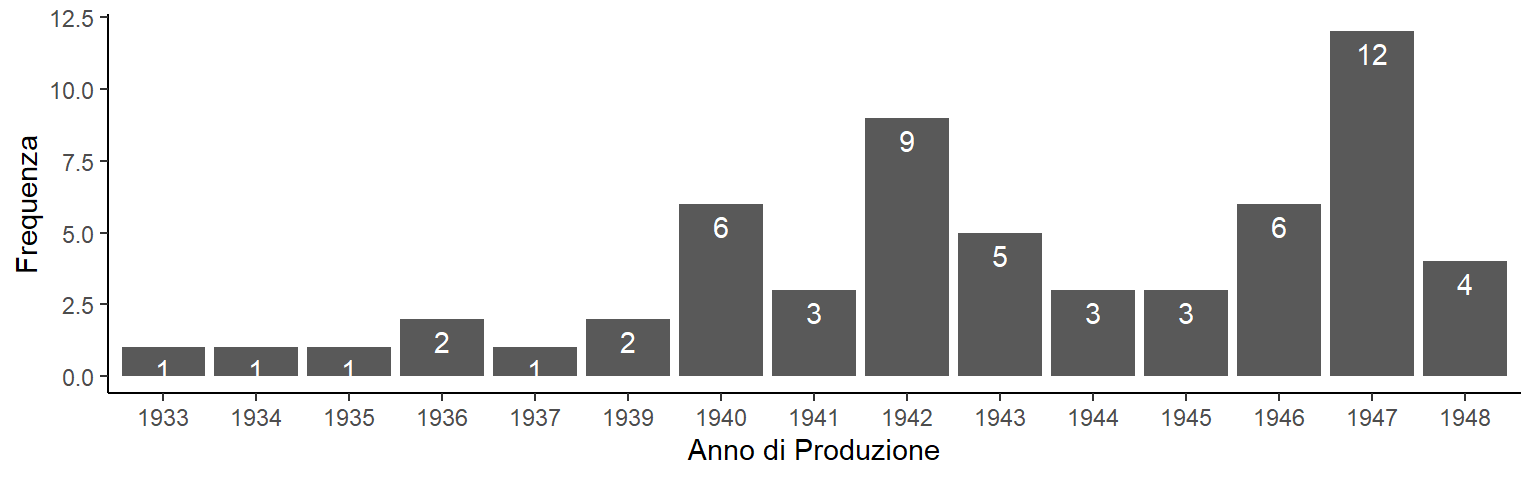
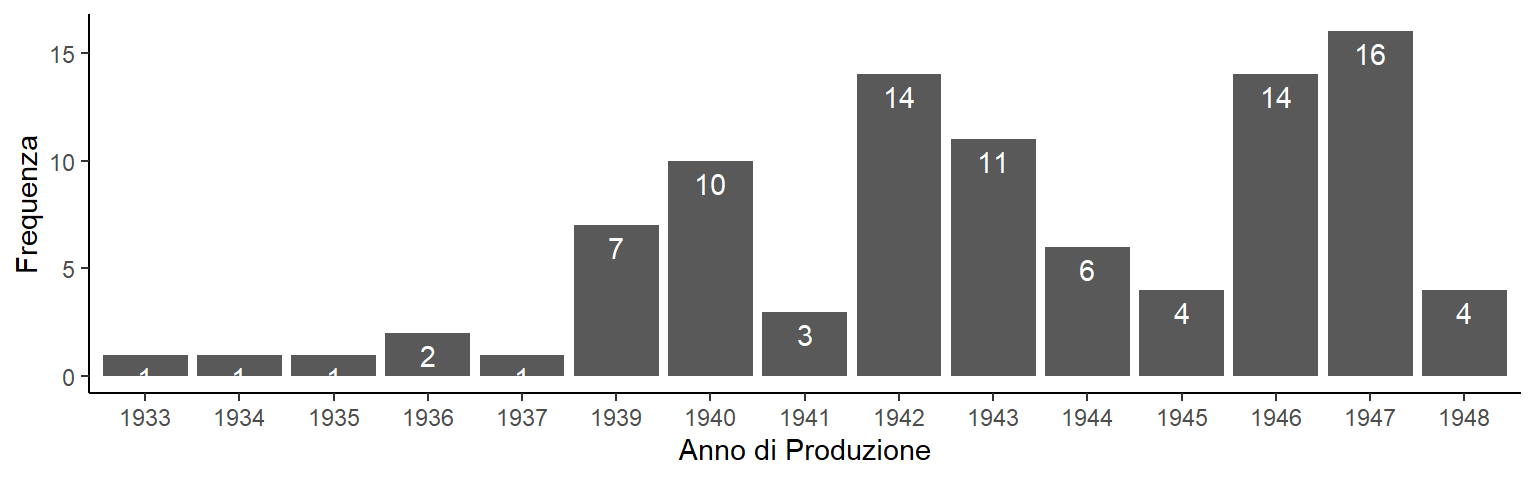
aggiornamento articolo dopo il calendario 1948

diff --git a/content/agende/1948-10-01-agenda-cinematografica-1948-1949/index.md b/content/agende/1948-10-01-agenda-cinematografica-1948-1949/index.md
@@ -16,42 +16,40 @@ tags:
 
 In questo articolo esploreremo la stagione cinematografica che va dall'ottobre del 1948 a settembre del 1949, basandoci sull'elenco dei film ritrovati nelle agende cinematografiche del cinema (vedi le immagini nella galleria sotto l'articolo).
 
-Dalle agende cinematografiche del ‘48/‘49, possiamo contare ben 59 film unici proiettati. Il primo film di cui abbiamo la data di proiezione è [Melodia segreta](https://www.imdb.com/title/tt0191305/) (1940) di Claude Orval, proiettato il 6 ottobre 1948. Durante l'anno, se escludiano le repliche, la media di film unici proiettati ogni mese è stata di 5, ma il mese con il maggior numero di pellicole uniche in programmazione è stato febbraio.
+Dalle agende cinematografiche possiamo contare ben 95 film unici proiettati. Il primo film di cui abbiamo la data di proiezione è *[Tua per sempre](https://www.imdb.com/title/tt0035993/)* (1943, F. Ryan), proiettato l'11 febbraio 1948. Durante l'anno, se escludiano le repliche, la media di film unici proiettati ogni mese è stata di 5, ma il mese con il maggior numero di pellicole uniche in programmazione è stato novembre.
 
 
 <img src="{{< blogdown/postref >}}index_files/figure-html/unnamed-chunk-1-1.png" width="768" style="display: block; margin: auto;" />
 
-La maggior parte dei film proiettati rientra nel genere drammatico. Tra le particolarità di questa stagione troviamo il film [La casa degli orrori](https://www.imdb.com/title/tt0037793/) (House of Dracula) del 1945 diretto da Erle C. Kenton.
+La maggior parte dei film proiettati rientra nel genere drammatico. Tra le particolarità di questa stagione troviamo il film *[La casa degli orrori](https://www.imdb.com/title/tt0037793/) (House of Dracula)* (1945,E. C. Kenton).
 
 <img src="{{< blogdown/postref >}}index_files/figure-html/unnamed-chunk-2-1.png" width="576" style="display: block; margin: auto;" />
 
-Il film con anno di produzione più datato è [Anime alla deriva](https://www.imdb.com/title/tt0023826/) (1933) di Alfred Santell. Il cinema ha dato la possibilità agli spettatori di scoprire e apprezzare capolavori del passato, contribuendo a preservare il patrimonio cinematografico.
+Il film con anno di produzione più datato è *[Anime alla deriva](https://www.imdb.com/title/tt0023826/)* (1933, A. Santell). Il cinema ha dato la possibilità agli spettatori di scoprire e apprezzare capolavori del passato, contribuendo a preservare il patrimonio cinematografico.
 
 <img src="{{< blogdown/postref >}}index_files/figure-html/unnamed-chunk-3-1.png" width="768" style="display: block; margin: auto;" />
 
-La durata media dei film proiettati al cinema è di 92 minuti, con i film drammatici che spesso superavano questa media. Tra i film più lunghi, che superavano le due ore abbiamo: [La Certosa di Parma](https://www.imdb.com/title/tt0040223/) (1948) di Christian-Jaque, [Le chiavi del paradiso](https://www.imdb.com/title/tt0036983/) (1944) di John M. Stahl, e [La gondola del diavolo](https://www.imdb.com/title/tt0038570/) (1946) di Carlo Campogalliani. D'altra parte, tra i film più brevi, che duravano quasi un'ora ci sono: [Fiamme sul messico](https://www.imdb.com/title/tt0034993/) (1942) di Sam Newfield, [Il mistero dei tre sosia](https://www.imdb.com/title/tt0033390/) (1942) di Sam Newfield, e [Bionda Selvaggia](https://www.imdb.com/title/tt0039198/) (1947) di Steve Sekely.
+La durata media dei film proiettati al cinema è di 92 minuti, con i film drammatici che spesso superavano questa media. Tra i film più lunghi, che superavano le due ore abbiamo: *[La Certosa di Parma](https://www.imdb.com/title/tt0040223/)* (1948, C. Jaque), *[Le chiavi del paradiso](https://www.imdb.com/title/tt0036983/)* (1944, J. M. Stahl), e *[La gondola del diavolo](https://www.imdb.com/title/tt0038570/)* (1946, C. Campogalliani). D'altra parte, tra i film più brevi, che duravano meno di un'ora ci sono: *[Fiamme sul messico](https://www.imdb.com/title/tt0034993/)* (1942, S. Newfield), *[Il mistero dei tre sosia](https://www.imdb.com/title/tt0033390/)* (1942, S. Newfield), e *[Bionda Selvaggia](https://www.imdb.com/title/tt0039198/)* (1947, S. Sekely).
 
 <img src="{{< blogdown/postref >}}index_files/figure-html/unnamed-chunk-4-1.png" width="768" style="display: block; margin: auto;" />
 
-Basandoci sul rating degli utenti di Internet Movie Database, uno dei film più apprezzati di questa stagione è [Vogliamo Vivere](https://www.imdb.com/title/tt0035446/) (1942) del noto regista Ernst Lubitsch. Tra gli altri film di Lubitsch in questa stagione troviamo [La vedova allegra](https://www.imdb.com/title/tt0025493/) (1934).
+Basandoci sul rating degli utenti di Internet Movie Database, uno dei film più apprezzati di questa stagione è *[Vogliamo Vivere](https://www.imdb.com/title/tt0035446/)* (1942) del noto regista Ernst Lubitsch. Tra gli altri film di Lubitsch in questa stagione troviamo *[La vedova allegra](https://www.imdb.com/title/tt0025493/)* (1934).
 
-Tabella 1: I migliori film della stagione '48/'49 secondo gli utenti di IMDb:
+Tabella 1: I migliori film secondo gli utenti di IMDb:
 
-|Titolo              |Anno |Regia                 | IMDb rating|
-|:-------------------|:----|:---------------------|-----------:|
-|[Vogliamo Vivere!](https://www.imdb.com/title/tt0035446/)|1942 |Ernst Lubitsch        |         8.2|
-|[Vertigine](https://www.imdb.com/title/tt0037008/)|1944 |Otto Preminger        |         7.9|
-|[Addio Kira!](https://www.imdb.com/title/tt0034429/)|1942 |Goffredo Alessandrini |         7.4|
-|[Margherita Gauthier](https://www.imdb.com/title/tt0028683/)|1936 |George Cukor          |         7.3|
-|[La vedova allegra](https://www.imdb.com/title/tt0025493/)|1934 |Ernst Lubitsch        |         7.2|
+|Titolo                                   |Anno |Regia               | IMDb rating|
+|:----------------------------------------|:----|:-------------------|-----------:|
+|[Vogliamo Vivere!](https://www.imdb.com/title/tt0035446/)|1942 |Ernst Lubitsch      |         8.2|
+|[Vertigine](https://www.imdb.com/title/tt0037008/)|1944 |Otto Preminger      |         7.9|
+|[Musica proibita](https://www.imdb.com/title/tt0035099/)|1942 |Carlo Campogalliani |         7.6|
+|[La voce nella tempesta (Cime tempestose)](https://www.imdb.com/title/tt0032145/)|1939 |William Wyler       |         7.5|
+|[Una notte tempestosa](https://www.imdb.com/title/tt0036210/)|1943 |Jean Georgescu      |         7.5|
 
-Dei 59 film proiettati in questa stagione, ben 32 sono di produzione Italiana. Tra questi, il più vecchio è [Fiat voluntas dei](https://www.imdb.com/title/tt0026348/) (1936) di Amleto Palermi.
+Dei 95 film proiettati in questa stagione, ben 58 sono di produzione Italiana. Tra questi, il più vecchio è *[Fiat voluntas dei](https://www.imdb.com/title/tt0026348/)* (1936, A. Palermi).
 
-I film con la regia più frequente sono quelli di [Mario Camerini](https://it.wikipedia.org/wiki/Mario_Camerini) con [Centomila dollari](https://www.imdb.com/title/tt0031146/) (1940), [T’amerò sempre](https://www.imdb.com/title/tt0036413/) (1943) e [La figlia del capitano](https://www.imdb.com/title/tt0039381/) (1947). Regista molto popolare dopo l’avvento del cinema sonoro e prima dello scoppio della guerra. Le opere di Camerini sono tipicamente commedie romantiche con trame molto complesse. Nella maggior parte dei casi, i suoi film forniscono una visione ironica e critica della società borghese. I temi principali di Camerini sono le pressioni imposte all'individuo dalla società ei ruoli che le persone sono costrette a svolgere nei rapporti con gli altri.
+I film con la regia più frequente sono quelli di [Mario Camerini](https://it.wikipedia.org/wiki/Mario_Camerini) con *[Centomila dollari](https://www.imdb.com/title/tt0031146/)* (1940), *[T’amerò sempre](https://www.imdb.com/title/tt0036413/)* (1943), *[L'angelo e il diavolo](https://www.imdb.com/title/tt0038301/)* (1946) e *[La figlia del capitano](https://www.imdb.com/title/tt0039381/)* (1947). Regista molto popolare dopo l’avvento del cinema sonoro e prima dello scoppio della guerra. Le opere di Camerini sono tipicamente commedie romantiche con trame molto complesse. Nella maggior parte dei casi, i suoi film forniscono una visione ironica e critica della società borghese. I temi principali di Camerini sono le pressioni imposte all'individuo dalla società ei ruoli che le persone sono costrette a svolgere nei rapporti con gli altri.
 
-I generi cinematografici spaziano dai drammi sentimentali alle commedie, includendo alcuni film appartenenti al genere italiano dei [telefoni bianchi](https://it.wikipedia.org/wiki/Cinema_dei_telefoni_bianchi) come [Ballo al castello](https://www.imdb.com/title/tt0031075/) (1939), [La mia canzone al vento](https://www.imdb.com/title/tt0031642/) (1939), [Incontri di notte](https://www.imdb.com/title/tt0034894/) (1943), e [Fiori d'arancio](https://www.imdb.com/title/tt0036826/) (1944).
-
-Tra i tanti film proiettati in questa stagione cinematografica troviamo [Follie per l’opera](https://www.imdb.com/title/tt0040362/) (1948), un film che ha dato la possibilità alla popolazione locale di conosce l’attrice emergente [Gina Lollobrigida](https://it.wikipedia.org/wiki/Gina_Lollobrigida).
+Tra i tanti film proiettati in questa stagione cinematografica troviamo *[Follie per l’opera](https://www.imdb.com/title/tt0040362/)* (1948, M. Costa), un film che ha dato la possibilità alla popolazione locale di conosce l’attrice emergente [Gina Lollobrigida](https://it.wikipedia.org/wiki/Gina_Lollobrigida).
 
 ## Galleria immagini
 
@@ -61,21 +59,61 @@ Tra i tanti film proiettati in questa stagione cinematografica troviamo [Follie 
 ### Agenda La Settimana Incom 1948-49
 {{< image-gallery gallery_dir="/images/1948_incom" >}}
 
+### Calendario proiezioni 1948
+Nel calendario si riconoscono evidenziati in giallo 38 film.
+{{< image-gallery gallery_dir="/images/1948_01_01_calendario_proiezioni" >}}
+
 ## Lista film
 
 |Data di proiezione |Titolo                                          |
 |:------------------|:-----------------------------------------------|
+|1948-02-11         |[Tua per sempre](https://www.imdb.com/title/tt0035993/)|
+|1948-02-17         |[L'ultima carrozzella](https://www.imdb.com/title/tt0036470/)|
+|1948-02-21         |[La fanciulla di Portici](https://www.imdb.com/title/tt0032454/)|
+|1948-05-01         |[Ciao bellezza!](https://www.imdb.com/title/tt0035206/)|
+|1948-05-03         |[Il conte di Montecristo](https://www.imdb.com/title/tt0035752/)|
+|1948-05-08         |[Rosa di sangue](https://www.imdb.com/title/tt0031876/)|
+|1948-05-10         |[Il ponte dei sospiri](https://www.imdb.com/title/tt0032920/)|
+|1948-05-14         |[Montecassino](https://www.imdb.com/title/tt0038748/)|
+|1948-05-17         |[Fuga a due voci](https://www.imdb.com/title/tt0034762/)|
+|1948-05-21         |[Il fornaretto di Venezia](https://www.imdb.com/title/tt0031332/)|
+|1948-05-24         |[Addio, giovinezza!](https://www.imdb.com/title/tt0032182/)|
+|1948-06-05         |[La contessa di Montecristo](https://www.imdb.com/title/tt0039106/)|
+|1948-06-07         |[Alaska, inferno dell'oro](https://www.imdb.com/title/tt0036590/)|
+|1948-06-11         |[La voce nella tempesta (Cime tempestose)](https://www.imdb.com/title/tt0032145/)|
+|1948-06-13         |[La monaca di Monza](https://www.imdb.com/title/tt0039630/)|
+|1948-06-19         |[Il testimone](https://www.imdb.com/title/tt0038155/)|
+|1948-06-21         |[Pian delle stelle](https://www.imdb.com/title/tt0038840/)|
+|1948-06-26         |[Felicità perduta](https://www.imdb.com/title/tt0038525/)|
+|1948-07-02         |[Il figlio di Montecristo](https://www.imdb.com/title/tt0033076/)|
+|1948-07-09         |[Ogni giorno è domenica](https://www.imdb.com/title/tt0037144/)|
+|1948-07-12         |[I due Foscari](https://www.imdb.com/title/tt0034687/)|
+|1948-07-20         |[La cena delle beffe](https://www.imdb.com/title/tt0033456/)|
+|1948-08-05         |[Una notte tempestosa](https://www.imdb.com/title/tt0036210/)|
+|1948-09-10         |[Capitan Tempesta](https://www.imdb.com/title/tt0033449/)|
+|1948-09-13         |[Il leone di Damasco](https://www.imdb.com/title/tt0033825/)|
+|1948-09-19         |[Un uomo ritorna](https://www.imdb.com/title/tt0039072/)|
+|1948-09-23         |[Caterina da Siena](https://www.imdb.com/title/tt0039254/)|
 |1948-10-06         |[Melodia segreta](https://www.imdb.com/title/tt0191305/)|
 |1948-10-16         |[La mia canzone al vento](https://www.imdb.com/title/tt0031642/)|
 |1948-10-19         |[Ricchezza senza domani](https://www.imdb.com/title/tt0031856/)|
 |1948-10-22         |[La casa degli orrori](https://www.imdb.com/title/tt0037793/)|
 |1948-10-24         |[Follie per l'opera](https://www.imdb.com/title/tt0040362/)|
+|1948-11-01         |[L'angelo e il diavolo](https://www.imdb.com/title/tt0038301/)|
+|1948-11-04         |[Capitan Kidd](https://www.imdb.com/title/tt0037576/)|
 |1948-11-07         |[Vertigine](https://www.imdb.com/title/tt0037008/)|
 |1948-11-09         |[Il sultano rosso](https://www.imdb.com/title/tt0026032/)|
+|1948-11-09         |[Buffalo Bill](https://www.imdb.com/title/tt0036677/)|
 |1948-11-14         |[Torna... a Sorrento](https://www.imdb.com/title/tt0038183/)|
+|1948-11-16         |[La maschera di ferro](https://www.imdb.com/title/tt0031619/)|
+|1948-11-19         |[Due ragazze e un marinaio](https://www.imdb.com/title/tt0037408/)|
 |1948-11-20         |[La vedova allegra](https://www.imdb.com/title/tt0025493/)|
+|1948-11-22         |[Musica proibita](https://www.imdb.com/title/tt0035099/)|
 |1948-11-25         |[Tentazione](https://www.imdb.com/title/tt0039015/)|
+|1948-11-25         |[Il corriere del re](https://www.imdb.com/title/tt0039280/)|
 |1948-11-28         |[Margherita Gauthier](https://www.imdb.com/title/tt0028683/)|
+|1948-12-02         |[Balalaika](https://www.imdb.com/title/tt0031074/)|
+|1948-12-06         |[Maschera di sangue](https://www.imdb.com/title/tt0143686/)|
 |1948-12-08         |[Anime alla deriva](https://www.imdb.com/title/tt0023826/)|
 |1948-12-10         |[Vogliamo Vivere!](https://www.imdb.com/title/tt0035446/)|
 |1948-12-31         |[Le chiavi del paradiso](https://www.imdb.com/title/tt0036983/)|
